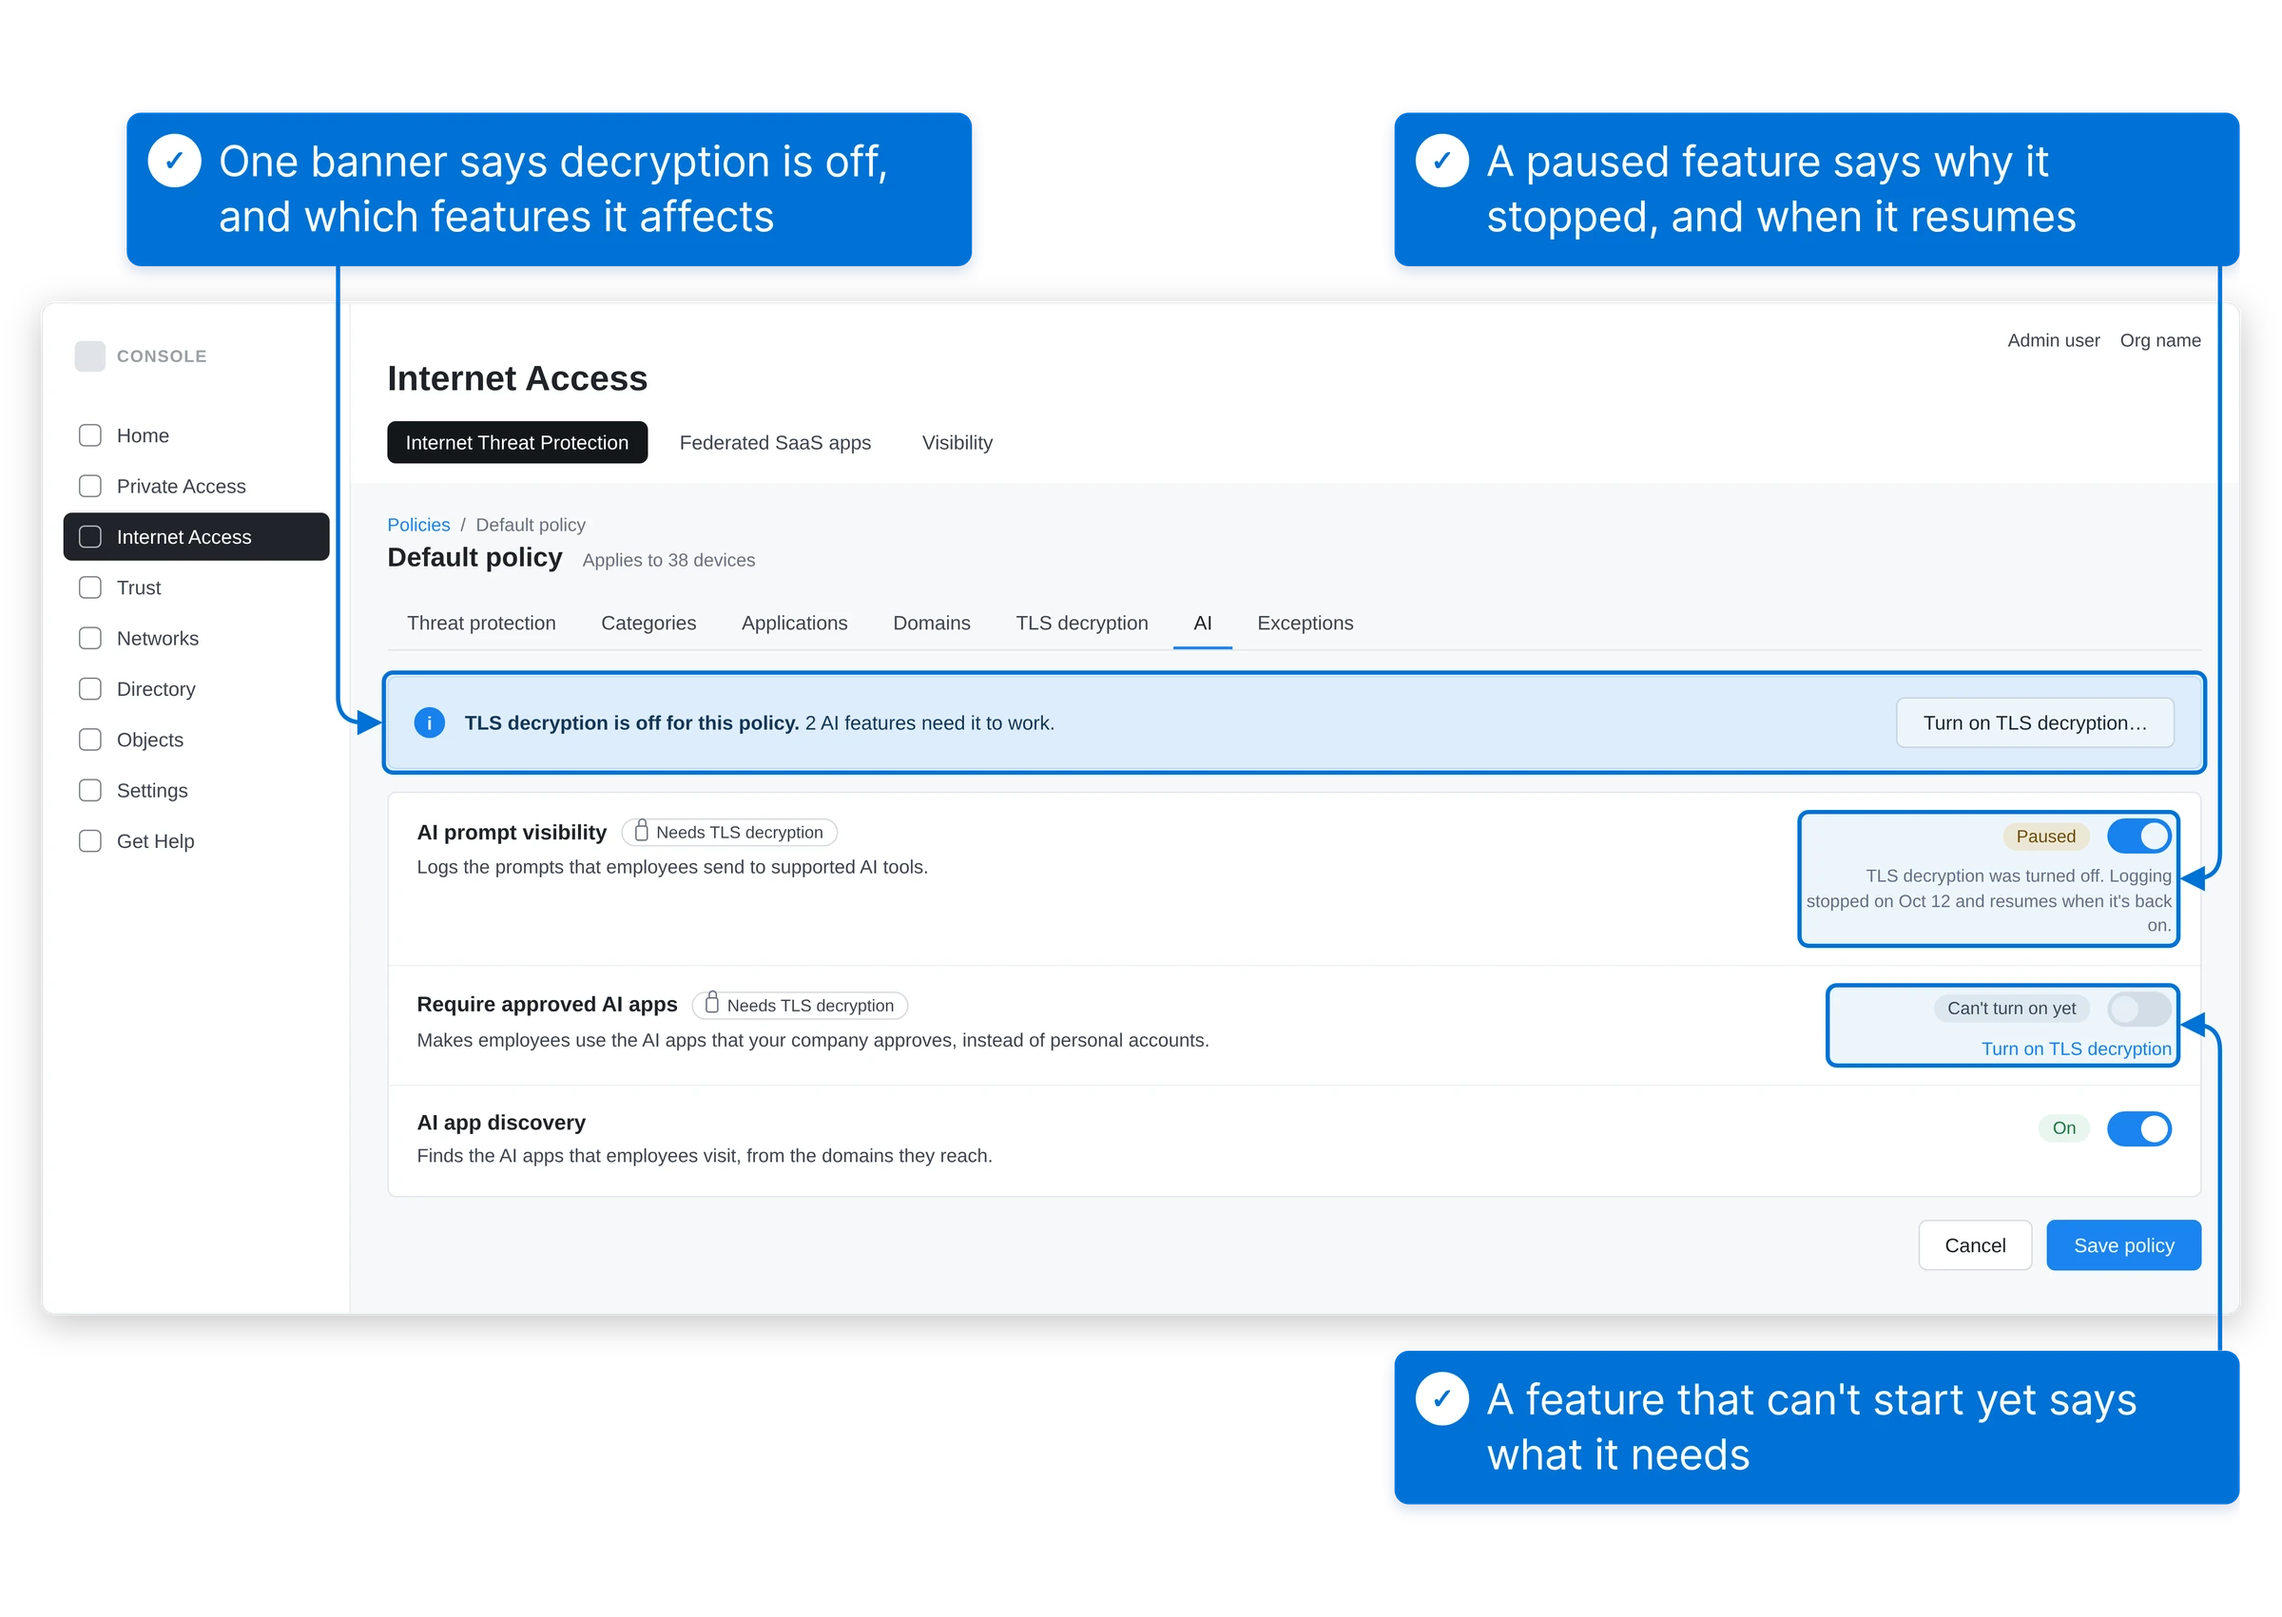
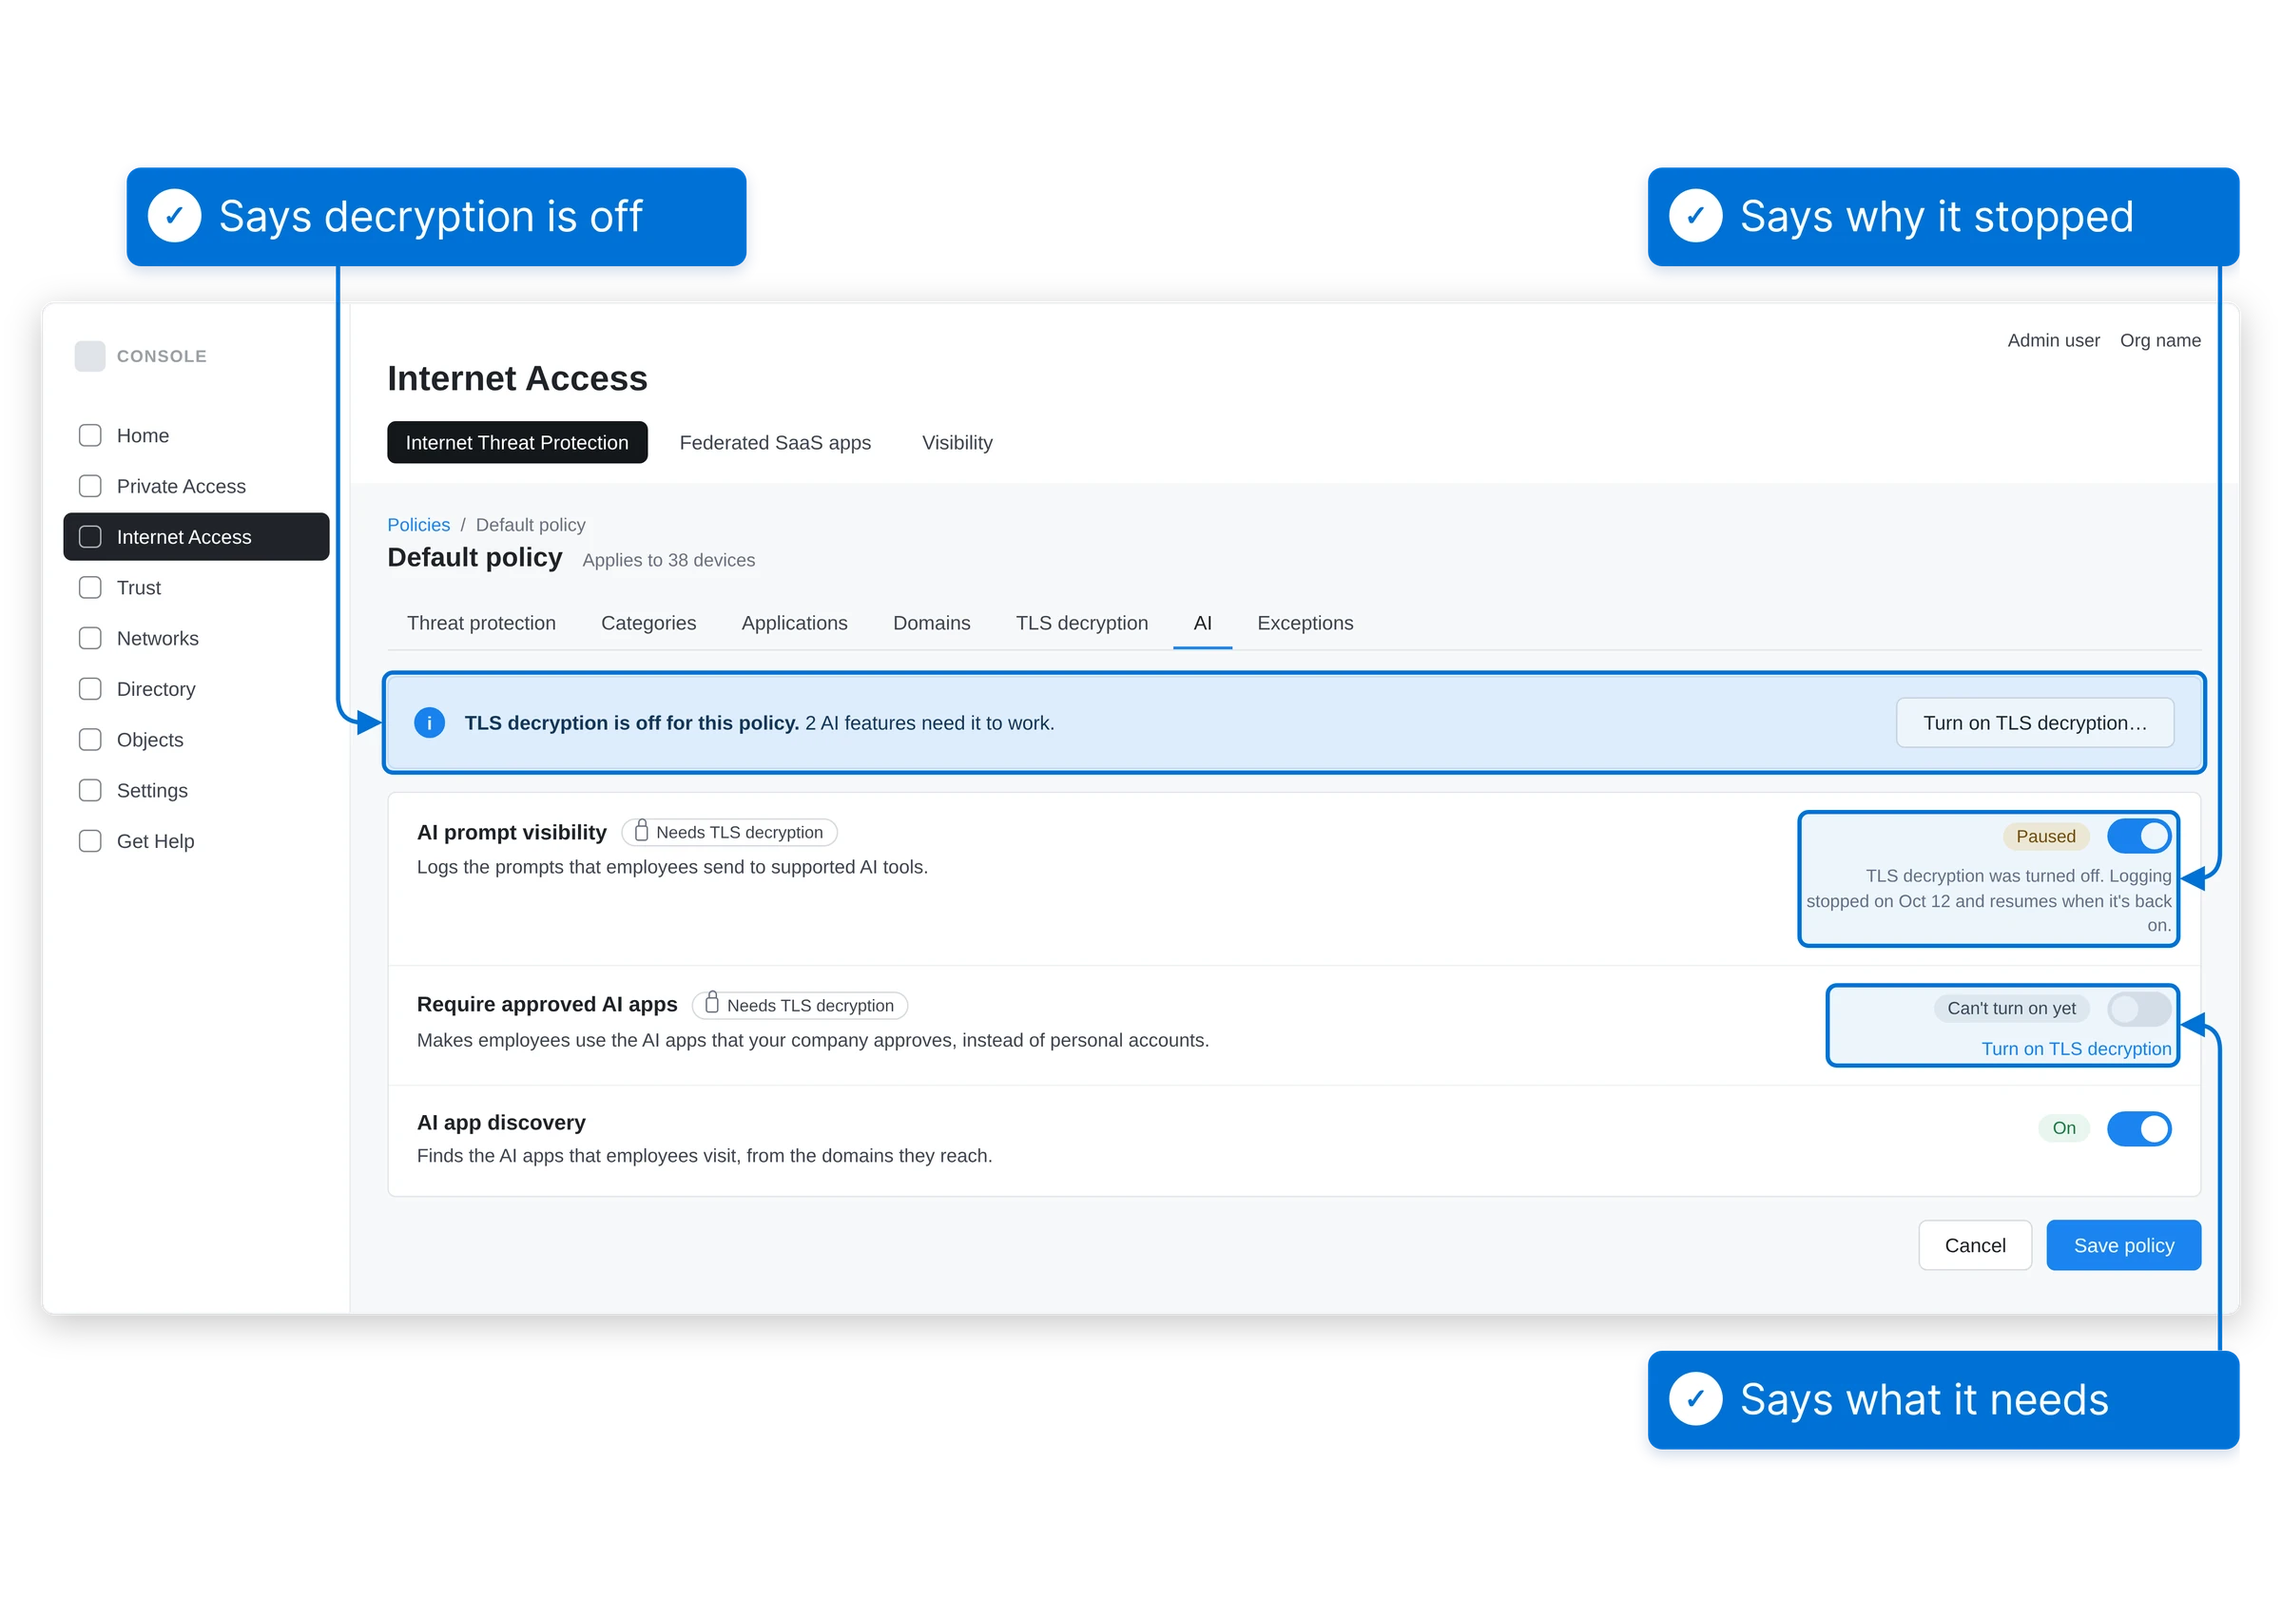
Make the AI tab section and its callouts more direct
Claude-Session: https://claude.ai/code/session_01LSpc9GfWinUYVZHRac1AsR

Changed region(s): [[0.5938, 0.0623, 1.0, 0.1869], [0.0312, 0.0623, 0.4375, 0.1869], [0.5938, 0.8101, 1.0, 0.9347]]

diff --git a/docs/content-design/ai-prompt-visibility.md b/docs/content-design/ai-prompt-visibility.md
@@ -68,20 +68,14 @@ Both designs are still prototypes. The product team picked the second direction 
 
 ### Then the roadmap grew
 
-AI prompt visibility isn't the only feature that needs TLS decryption. Require approved AI apps needs it too, and so does risk-based URL filtering, which isn't an AI feature at all. The team also wanted one tab for every AI feature in a policy.
+More features needed decryption, including one that has nothing to do with AI. The team also wanted every AI feature in one tab, which would separate them from decryption again.
 
-That brought the original problem back. Put the AI features in their own tab, and they're separated from decryption again. Put them under decryption, and URL filtering has nowhere to go.
+So I let each feature say what it needs, wherever it lives.
 
-So I proposed showing the dependency through each feature's state, instead of through where the feature lives. Decryption keeps one home, its own tab. The AI tab is organized around what admins want to do, and every feature that needs decryption says so.
+![A prototype of the AI tab in an Internet Threat Protection policy, with TLS decryption turned off. Callouts point to the banner that says decryption is off, the paused feature that says why it stopped, and the feature that says what it needs.](/img/content-design/ai-tab-annotated.webp)
 
-![A prototype of the AI tab in an Internet Threat Protection policy, with TLS decryption turned off. Callouts point to a banner that says decryption is off, a paused feature that says why it stopped, and a feature that says it can't turn on until decryption is on.](/img/content-design/ai-tab-annotated.webp)
+<p className="shot-cap">Decryption is off. Each feature says what that means for it.</p>
 
-<p className="shot-cap">A prototype of the AI tab with decryption turned off. Two features need it, and one doesn't.</p>
+![A confirmation dialog titled "Turn on TLS decryption for this policy?". Callouts point to the line that says it's the same setting, whose traffic is decrypted, what's never decrypted, and every feature that uses it.](/img/content-design/ai-tab-confirm-annotated.webp)
 
-Each feature that needs decryption has three states. It's on and working, it can't turn on yet, or it's paused because someone turned decryption off. That paused state fixes the empty-log problem for every feature, not just this one.
-
-Turning on decryption from the AI tab is never a silent toggle. It opens a confirmation that says exactly what the admin is agreeing to.
-
-![A confirmation dialog titled "Turn on TLS decryption for this policy?". Callouts point to the line that says it's the same setting as the TLS decryption tab, whose traffic will be decrypted, the categories that are never decrypted, and the features that use decryption.](/img/content-design/ai-tab-confirm-annotated.webp)
-
-<p className="shot-cap">The confirmation, when an admin turns on decryption from the AI tab.</p>
+<p className="shot-cap">Turning decryption on from the AI tab asks first.</p>
